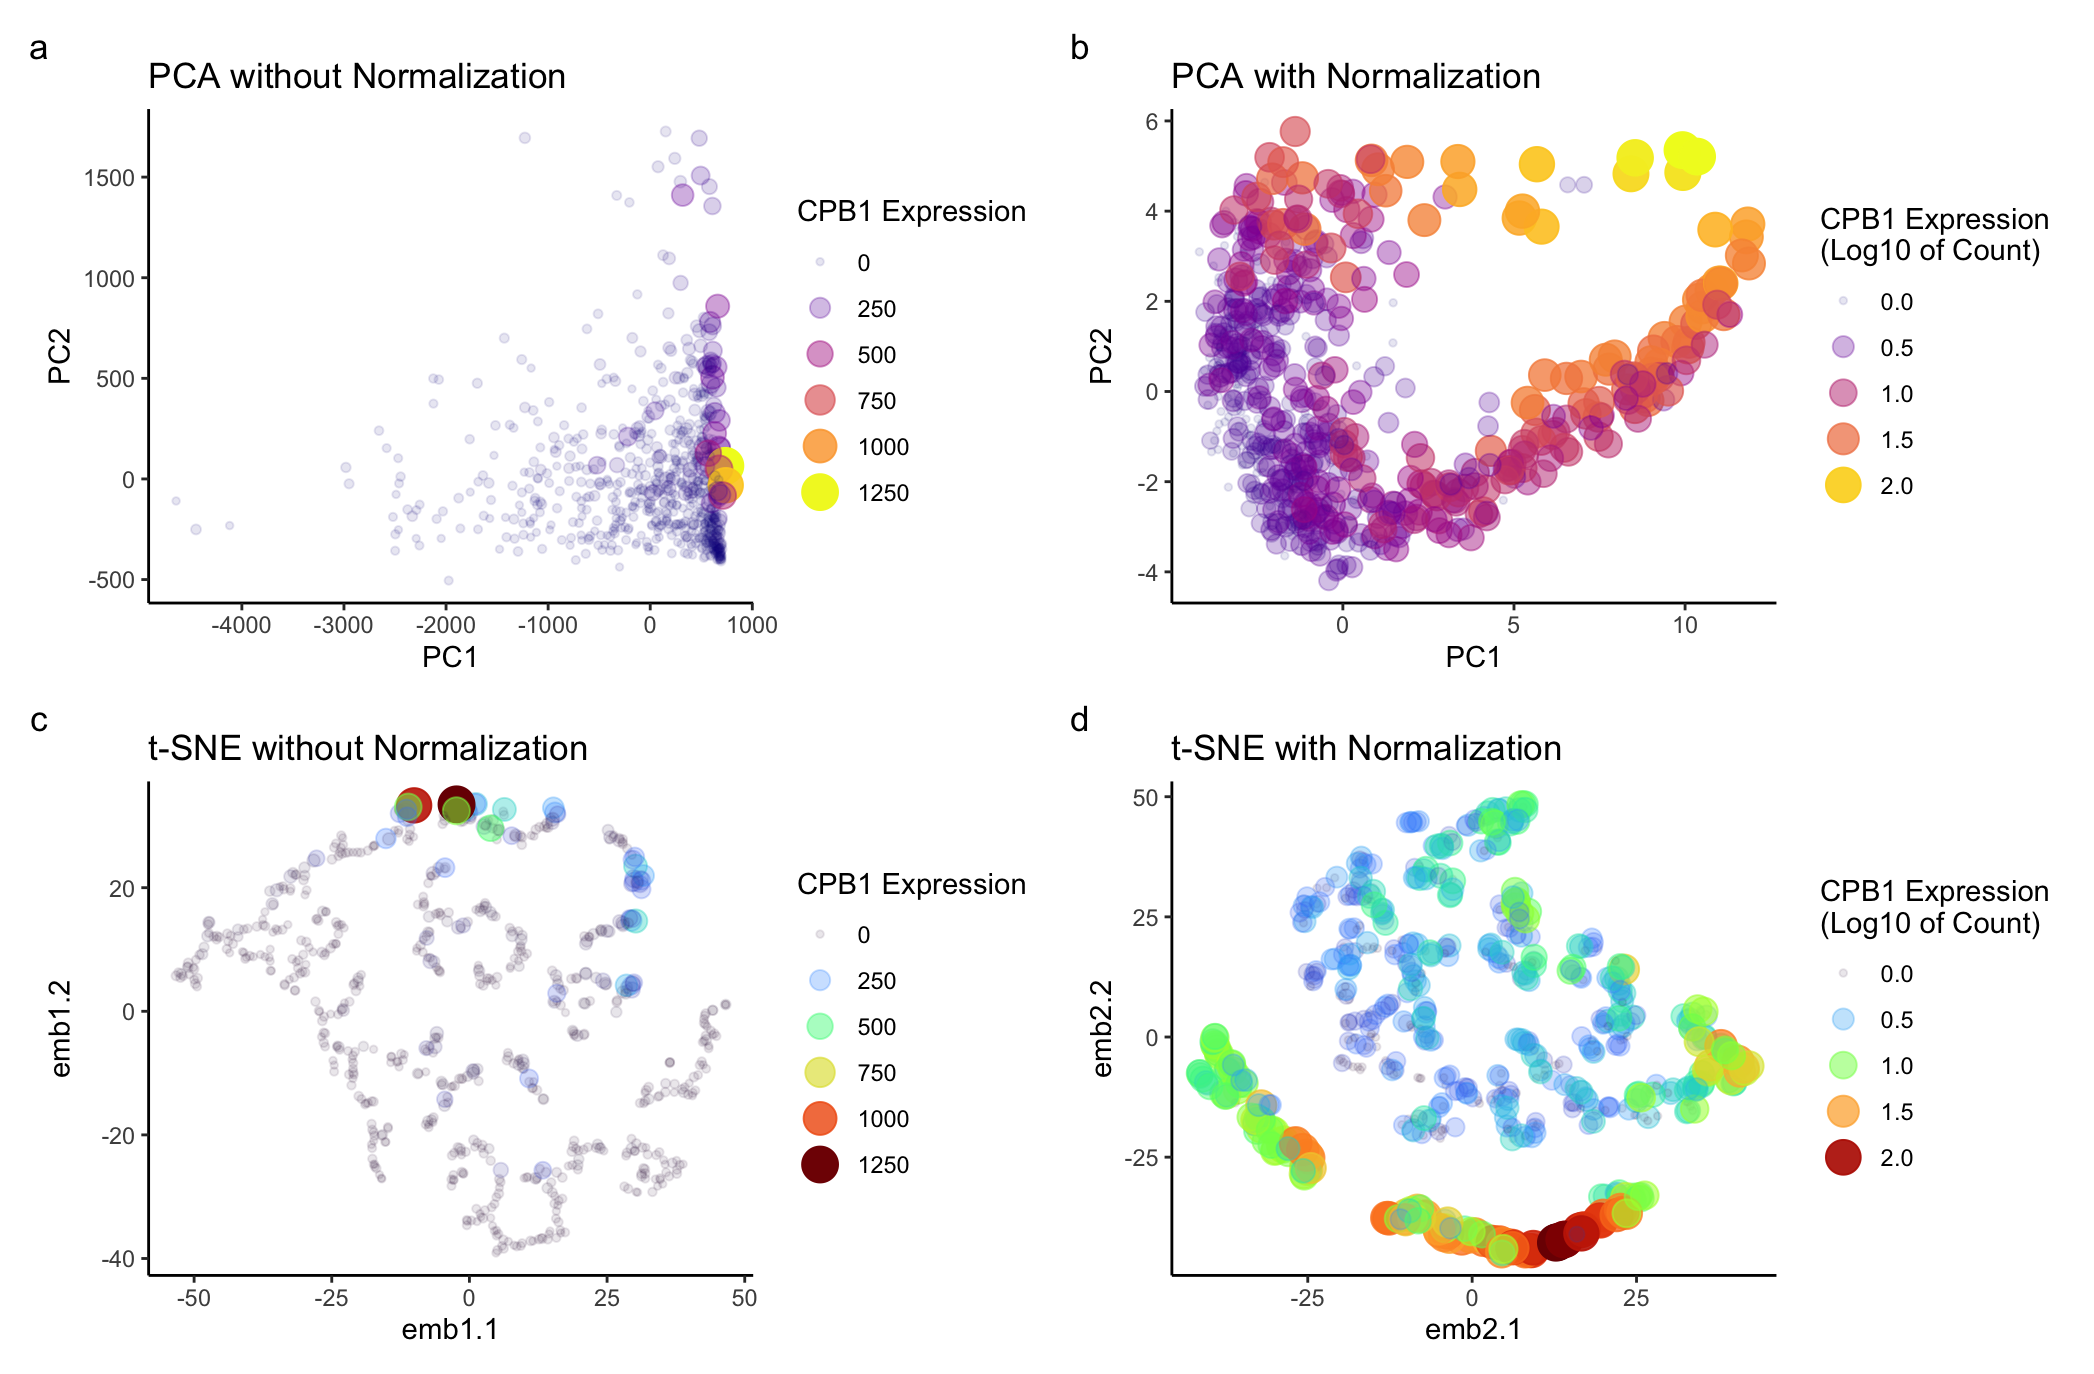
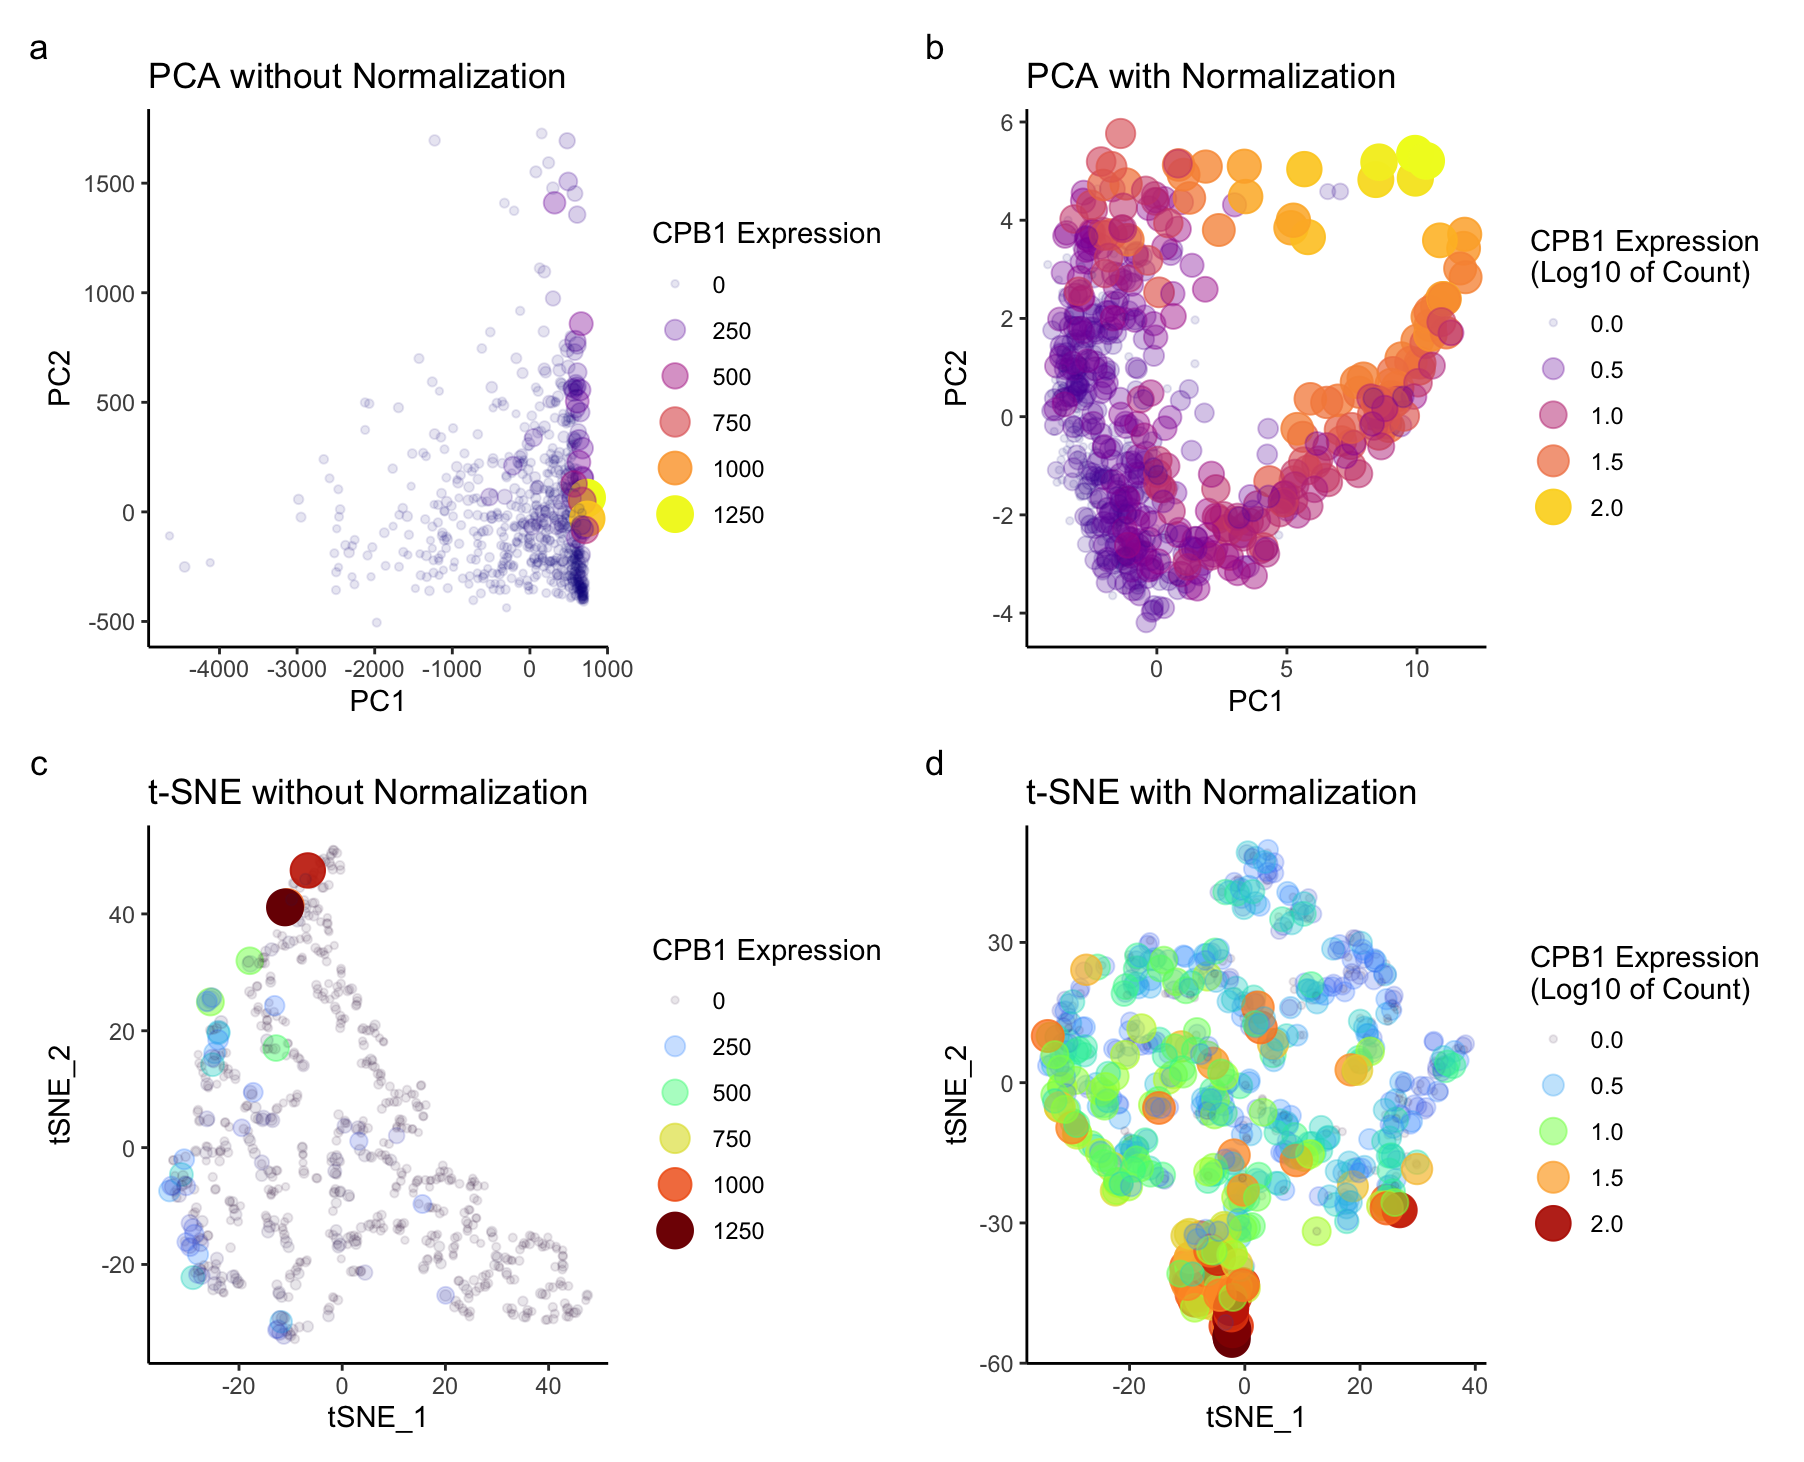
Updated

diff --git a/_posts/2024-02-04-nsoley1.md b/_posts/2024-02-04-nsoley1.md
@@ -10,12 +10,12 @@ featured: false
 
 ### What happens if I do or not not normalize and/or transform the gene expression data (e.g. log and/or scale) prior to dimensionality reduction?
 
-I explored to see the differences in the scatter plot for both the dimensional reduction techniques- prior and after data normalization. Before normalizing for PCA, I observed that genes with larger expression values may dominate the principal components. Most of the variance can be seen only along PC1. Whereas normalization ensures that each gene contributes more equally to the principal components. Hence we can see different clusters of CBP1 expression spread across PC1 and PC2. Log transformation stabilizes variance, especially for highly expressed genes. For t-SNE, without normalization higher expression are again dominating. t-SNE is known for preserving local structures, without normalization, it may be influenced by genes with large expression values. After normalization, I could see the clusters for both higher and lower expressed genes. Overall, my observation was that normalization in both the techniques stabilizes the variance and ensures that each gene contributes proportionally to the analysis.
+I explored to see the differences in the scatter plot for both the dimensional reduction techniques- prior and after data normalization. Before normalizing for PCA, based on these graphs, genes with larger expression values may dominate the principal components. Most of the variance can be seen only along PC1. Normalization ensures that each gene contributes more equally to the principal components. Hence we can see different groups of CBP1 expression spread across PC1 and PC2. Log transformation stabilizes variance, especially for highly expressed genes. For t-SNE, without normalization higher expression are again dominating. t-SNE is known for preserving local structures, without normalization, it may be influenced by genes with large expression values. After normalization, I could see the groups for both higher and lower expressed genes. Overall, my observation was that normalization in both the techniques stabilizes the variance in this dataset and ensures that each gene contributes proportionally to the analysis.
 
 ### Write a description describing your data visualization using vocabulary terms from Lesson 1.
 
-For all the plots, I used the geometric primitive of points to show the quantitative data for CPB1 gene expression levels. I am visualizing quantitative data of the expression level of the CPB1 gene. The visual channel of color saturation is used to encode the expression levels of the CPB1 gene. I am also using transparency for depth in understanding, and size for an additional layer of information as visual channels. This allows the user to visualize the relationship between possible clusters of gene expression based on the transparency, intesity of the color, and size of the points.The transparency reveals overlapping points, emphasizing areas of higher density, while the color intensity provides insights into the intensity of gene expression.The reason behind this is that, the data after dimensionality reduction should be separated into clusters, the color hue encoding of the expression level allows us to possibly see a trend in groups relating higher or lower gene expression.\
-The gestalt principle of similarity is applied, where points with similar color are perceived as related groups. The gestalt principle of proximity is also in play since closer points are perceived to be in a cluster. The side-by-side graphs effectively underscores the salient feature of normalization. The graph shows how normalization helps in stabilizing variance, ensuring equitable gene contribution, and unveiling potential trends in expression clusters.
+I am visualizing quantitative data of the expression level of the CPB1 gene. For all the plots, I used the geometric primitive of points to show each spatial barcode in the sequencing data. The visual channel of color saturation is used to encode the expression levels of the CPB1 gene. I am also using transparency for depth in understanding, and size for an additional layer of information as visual channels. This allows the user to visualize the relationship between possible group of gene expression based on the transparency, intesity of the color, and size of the points.The transparency reveals overlapping points, emphasizing areas of higher density, while the color intensity provides insights into the intensity of gene expression.The reason behind this is that, the data after dimensionality reduction should be separated into groups, the color hue encoding of the expression level allows us to possibly see a trend in groups relating higher or lower gene expression. Another visual channel to visualize the quantative PC1, PC2, and tSNE_1, tSNE_2 variable is position. PC1 and tSNE_1 are on x axis, PC2, tSNE_2 are on y axis.\
+The gestalt principle of similarity is applied, where points with similar color are perceived as similar having gene expression. The gestalt principle of proximity is also in play since closer points are perceived to be in a group. The side-by-side graphs effectively underscores the salient feature of effect of normalizing the data for dimensionality reduction.
 
 ### You must include the entire code you used to generate the figure so that it can be reproduced. You must provide attribution to external resources referenced (if any) in writing your code.
 
@@ -69,7 +69,7 @@ p2 <- ggplot(df_pcs) +
 emb1 <- Rtsne(gexp_filter[, 1:5], dim = 2, perplexity = 10)  # genexp without norm
 emb2 <- Rtsne(gexp_norm[, 1:5], dims = 2, perplexity = 10)  # genexp with norm
 
-
+df_emb<-data.frame(emb1=emb1$Y, emb2=emb2$Y, gene_2, gene)
 p3 <- ggplot(df_emb) +
   geom_point(aes(x = emb2.1, y = emb2.2, col = 0.8 * gene_2, alpha = 0.8 * gene_2, size = 0.8 * gene_2)) +
   scale_color_viridis(option = "turbo") +
@@ -77,6 +77,7 @@ p3 <- ggplot(df_emb) +
   guides(color = guide_legend(title = "CPB1 Expression\n(Log10 of Count)"),
          alpha = guide_legend(title = "CPB1 Expression\n(Log10 of Count)"),
          size = guide_legend(title = "CPB1 Expression\n(Log10 of Count)")) +
+  labs(x='tSNE_1',y='tSNE_2')+
   theme_classic()
 
 p4 <- ggplot(df_emb) +
@@ -86,12 +87,10 @@ p4 <- ggplot(df_emb) +
   guides(color = guide_legend(title = "CPB1 Expression"),
          alpha = guide_legend(title = "CPB1 Expression"),
          size = guide_legend(title = "CPB1 Expression")) +
+  labs(x='tSNE_1',y='tSNE_2')+
   theme_classic()
 
 # Combine plots
 final_plot <- p1 + p2 + p4 +  p3 + plot_annotation(tag_levels = 'a') + plot_layout(ncol = 2)
 final_plot
-
-
-
 ```
